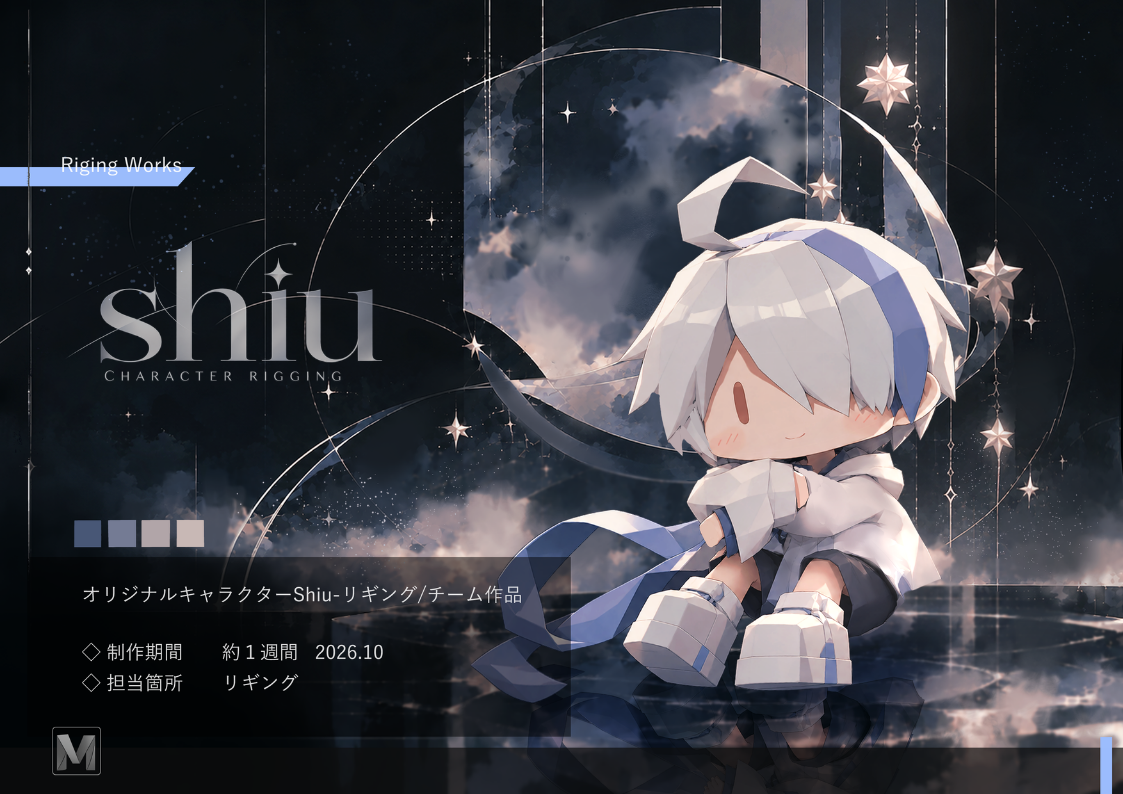
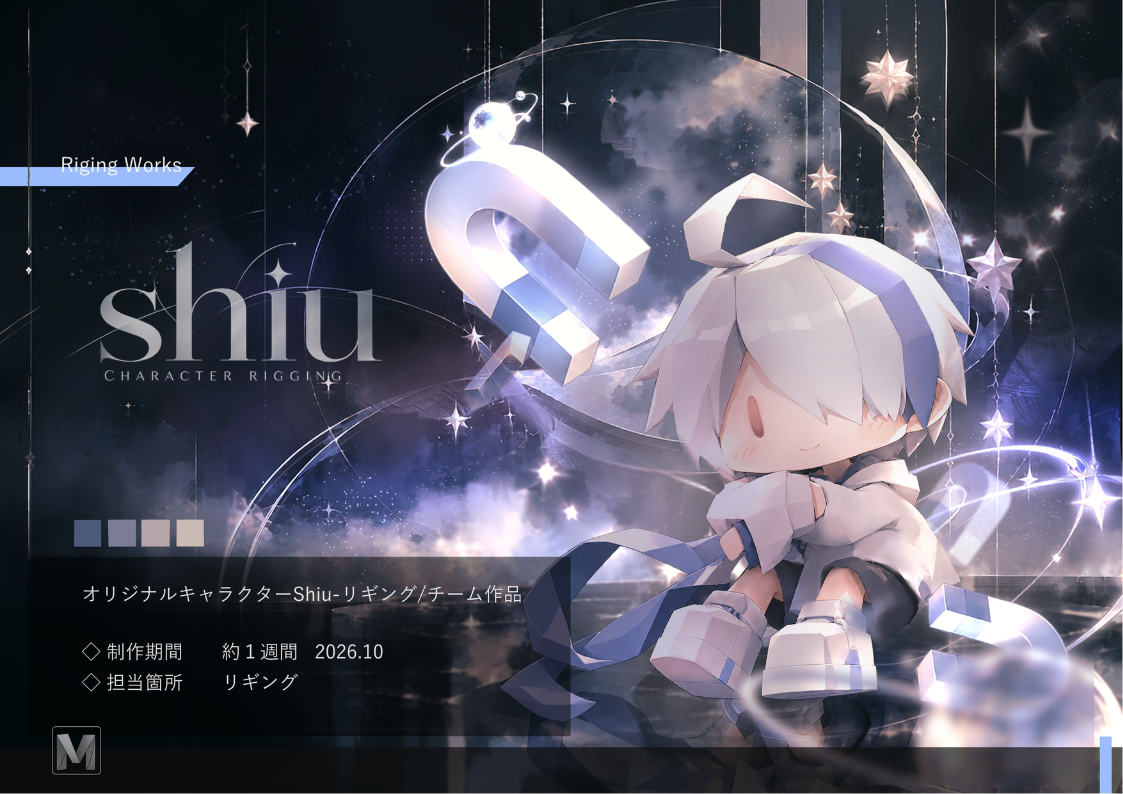
Prepare rig showcase for public release

diff --git a/README.md b/README.md
@@ -58,17 +58,20 @@
 
 ### 01. 四肢のIK / FK制御
 
-![IK/FK Controllers](docs/images/IKFK_Controllers.png)
+
 
 ![IK/FK Switching](docs/gifs/IKFK_Switch.gif)
 
 両腕・両脚にIK/FK切替を実装しました。IKでは手足の位置、FKでは関節の回転を中心に操作できます。FK用・IK用のDriverと変形ジョイントを分離し、それぞれの設定コントローラーから制御方式を切り替える構造です。
 
+![IK Switching](docs/gifs/IK_switch.gif)
+
 腕のIKコントローラーには**Body / World**の基準切替を用意し、胴体に追従させる動きと、空間上に手を残したい動きを使い分けられるようにしています。各四肢にはPole Vectorを設け、IK操作時の関節方向を調整できます。
 
 ### 02. 二段階の足先制御 | Simple / Reverse
 
-![Foot Control](docs/gifs/Foot_Control.gif)
+
+![IK Space Switching](docs/gifs/IK_Space.gif)
 
 脚の設定コントローラーに**Foot Mode（Simple / Reverse）**を用意しました。通常のポージングではシンプルな足操作を使い、踏み込みやつま先立ちなど接地表現を細かく調整したい場面ではReverse Footを使用できます。
 
@@ -76,7 +79,8 @@
 
 ### 03. IKの追従基準切替
 
-![IK Space Switching](docs/gifs/IK_Space.gif)
+![Foot Control](docs/gifs/Foot_Control.gif)
+
 
 腕・脚のIKに**Body / World**の基準切替を用意しました。脚にはさらに**Hip Follow**を設け、腰の動きとの関係を調整できます。
 
@@ -91,8 +95,6 @@
 SDキャラクターの丸みを崩しすぎず、前屈・反り・重心移動などを通じて、柔らかく弾むような印象を作りやすくすることを目指しました。
 
 ### 05. 首・頭部の制御 | Neck / World
-
-![Head Control](docs/gifs/Head_Control.gif)
 
 首と頭部のコントローラーを分け、顔の向きや傾きを独立して調整できます。頭部には**Rotation Space（Neck / World）**を実装しました。
 
@@ -110,25 +112,42 @@ SDキャラクターの丸みを崩しすぎず、前屈・反り・重心移動
 
 複雑なシミュレーションを前提とせず、キャラクターらしいシルエットやニュアンスを手付けで調整しやすくする設計です。
 
-### 07. フェイシャルと手指の操作
+### 07. UV切替式フェイシャルリグ | Texture Atlas
 
-![Facial Controllers](docs/images/Facial_Controllers.png)
+![Facial Texture Atlas](docs/images/Facial_TextureAtlas.png)
+
 
 ![Facial Demo](docs/gifs/Facial_Demo.gif)
 
-目・眉・口周辺の既存制御を活かし、表情の変化を調整できる構成です。両手の親指には専用のFKコントローラーを備え、腕の設定コントローラーから表示を管理できます。
+**Texture AtlasとUV Offsetを利用したフェイシャル制御システム**を実装しました。
 
-小さな頭身のキャラクターだからこそ、顔周辺と手先の変化が印象に与える影響を重視しました。
+1枚のテクスチャに6種類の表情を配置し、UV座標の参照位置を切り替えることで表情を変更します。
 
-### 08. 必要なときだけ使える詳細コントローラー
+専用コントローラー `Facial_anim` には表情選択用のカスタム属性を設け、アニメーターがUVエディタを操作することなく、属性の切替だけで表情を変更できる構成としました。
 
-![Control Visibility](docs/gifs/Control_Visibility.gif)
+メッシュの変形を伴わないため、SDキャラクターのシンプルな造形を維持しながら、効率的に感情表現を切り替えられます。
 
-補助的な足先操作や親指、アホ毛などの詳細制御は、通常時の画面を見やすくするため、基本操作から切り分けています。アニメーションの場面に応じて表示を切り替えることで、**機能の自由度と視認性を両立**させました。
+### 08. 手指制御 | SDK / Thumb FK
+
+![Hand Demo](docs/gifs/Hand_Control.gif)
+
+両手にSet Driven Key（SDK）を利用した手指制御を実装しました。
+
+設定コントローラーの属性から指の握りや開きをまとめて操作でき、基本的なハンドポーズを効率的に作成できます。
+
+また、親指には専用のFKコントローラーを設け、必要に応じて個別の回転調整が行える構成としました。
+
+詳細コントローラーは表示を切り替えられるため、通常時の操作性を維持しながら、手先の細かなニュアンスにも対応できます。
+
+
+### 09. 必要なときだけ使える詳細コントローラー
+
+![Control Visibility](docs/images/Control_Visibility.png)
+
+補助的な足先操作や親指、アホ毛などの詳細制御は歯車型のコントローラーを置いています。通常時の画面を見やすくするため、基本操作から切り分けています。アニメーションの場面に応じて表示を切り替えることで、**機能の自由度と視認性を両立**させました。
 
 ## 技術的な設計と工夫
 
-![Rig Hierarchy](docs/images/Rig_Hierarchy.png)
 
 操作コントローラー（`*_anim`）、IK/FK用Driver、最終的な変形ジョイントを役割ごとに分離しています。必要な操作だけを表側に出し、切替・追従・補助制御を内部のノード構成で管理する方針です。
 
@@ -168,7 +187,6 @@ Shiu-Character-Rig/
         ├── Foot_Control.gif
         ├── IK_Space.gif
         ├── Body_Motion.gif
-        ├── Head_Control.gif
         ├── Hood_Control.gif
         ├── Ahoge_Control.gif
         ├── Facial_Demo.gif
@@ -195,3 +213,11 @@ Shiu-Character-Rig/
 ## GitHub
 
 [GitHub - Yuzuki Midoshima](https://github.com/Yuzuki-Midoshima)
+
+---
+
+## License
+
+MIT License
+
+Copyright (c) 2026 Yuzuki Midoshima
